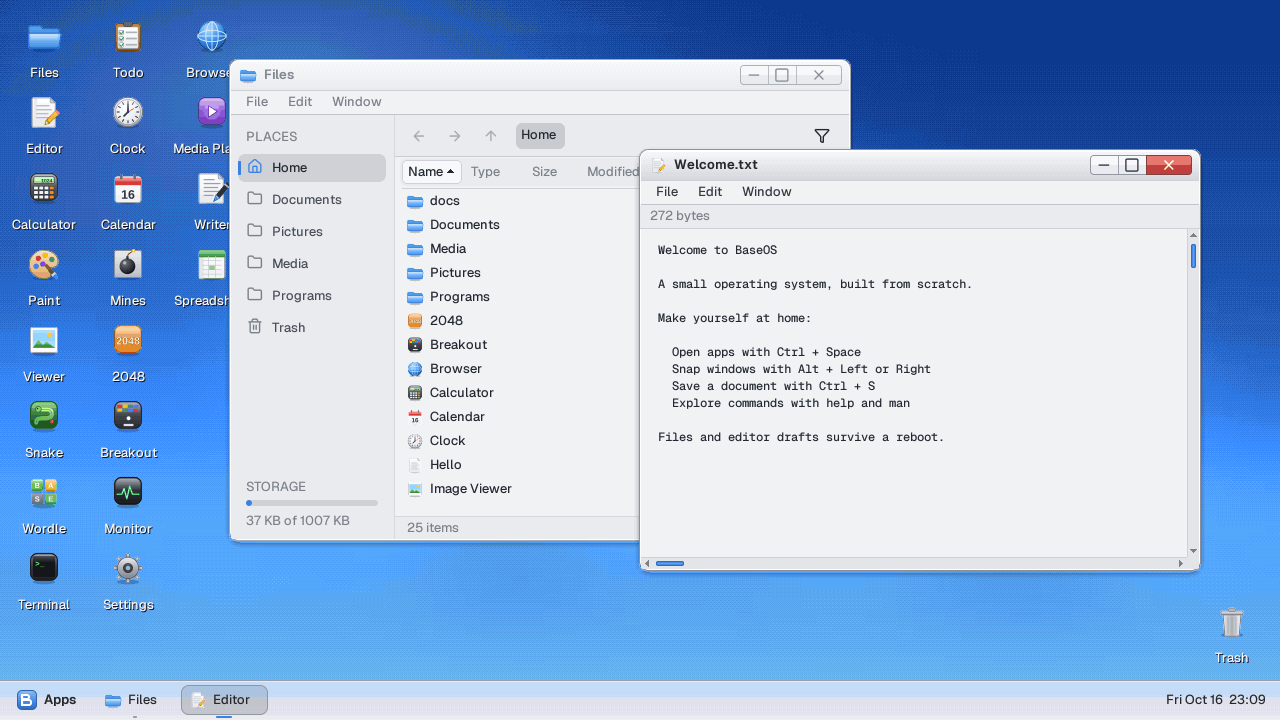
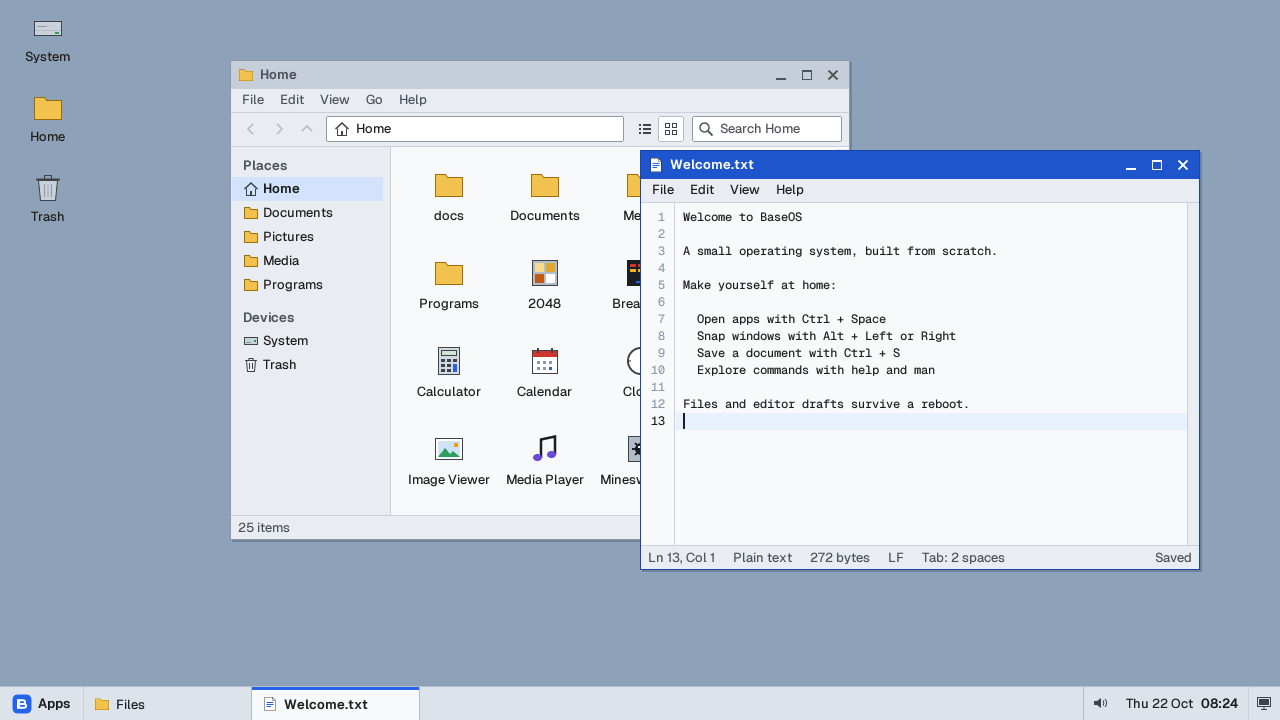
README screenshots: regenerate the gallery with the redesign; the Appearance shot uses the Modern style

diff --git a/tools/gallery_guest.c b/tools/gallery_guest.c
@@ -57,7 +57,7 @@ void feature_test(void) {
         if(y>hill)c=idx24(0x102830);
         paint_pix[y*PAINT_W+x]=c;
     }
-    paint_write_named("Mountain.bos");gallery_show(1);
+    paint_write_in(fs_find_child(fs_root(),"Pictures"),"Mountain.bos");gallery_show(1);
 
     gallery_clear();
     const char *program="10 REM Colored columns\n20 LET A=0\n30 RECT A,0,10,100,A+112\n40 LET A=A+10\n50 IF A < 160 THEN 30\n60 PRINT \"Hello from Tiny BASIC\"\n70 PRINT \"Canvas: 160 x 100\"\n80 END\n";
@@ -77,11 +77,12 @@ void feature_test(void) {
     for(int j=0;j<3;j++){for(int i=0;i<5;i++)wordle_key(WORDLE_ACT_NONE,guesses[j][i]);wordle_key(WORDLE_ACT_ENTER,0);}
     gallery_show(3);
 
-    gallery_clear();theme_id=1;theme_apply();
-    win_open(WK_CLOCK);gallery_place(890,150,0,0);
-    win_open(WK_SETTINGS);gallery_place(300,110,0,0);gallery_show(4);
+    /* The Modern style, without touching the saved preference. */
+    gallery_clear();ui_style=UI_STYLE_MODERN;theme_apply();icons_init();
+    win_open(WK_CLOCK);gallery_place(880,120,0,0);
+    win_open(WK_SETTINGS);gallery_place(40,60,0,0);gallery_show(4);
 
-    gallery_clear();theme_id=0;theme_apply();launcher_open();gallery_show(5);
+    gallery_clear();ui_style=UI_STYLE_CLASSIC;theme_apply();icons_init();launcher_open();gallery_show(5);
 
     int docs=fs_find_child(fs_root(),"Documents");
     gallery_clear();open_writer(-1);gallery_place(300,70,860,560);
